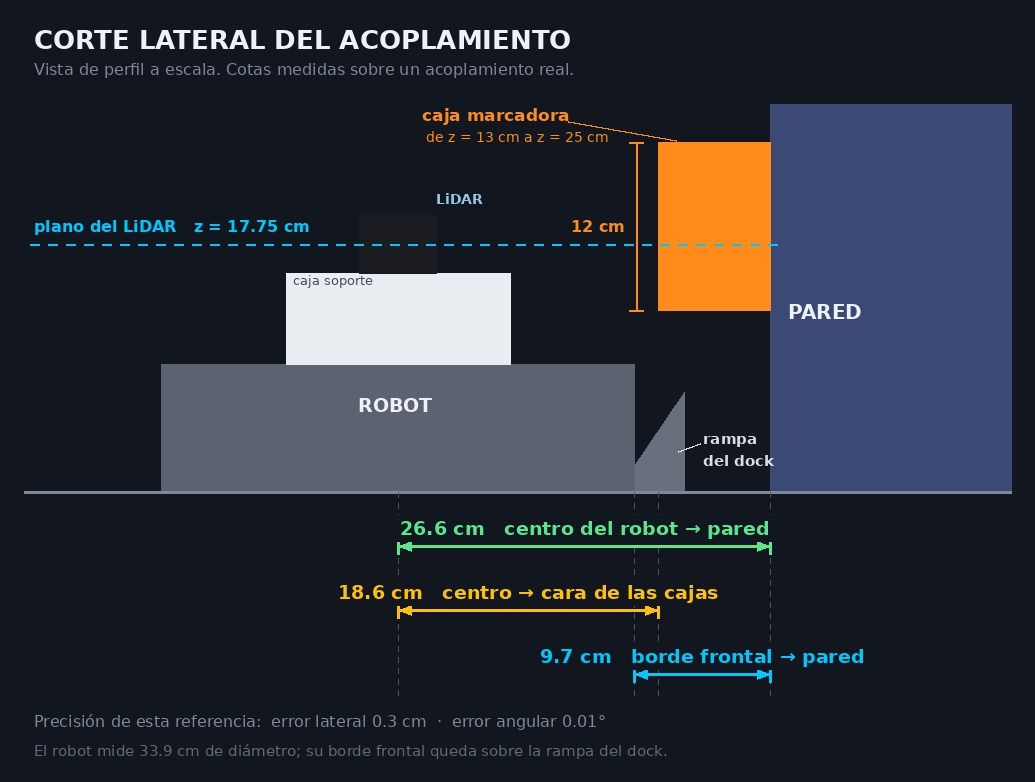
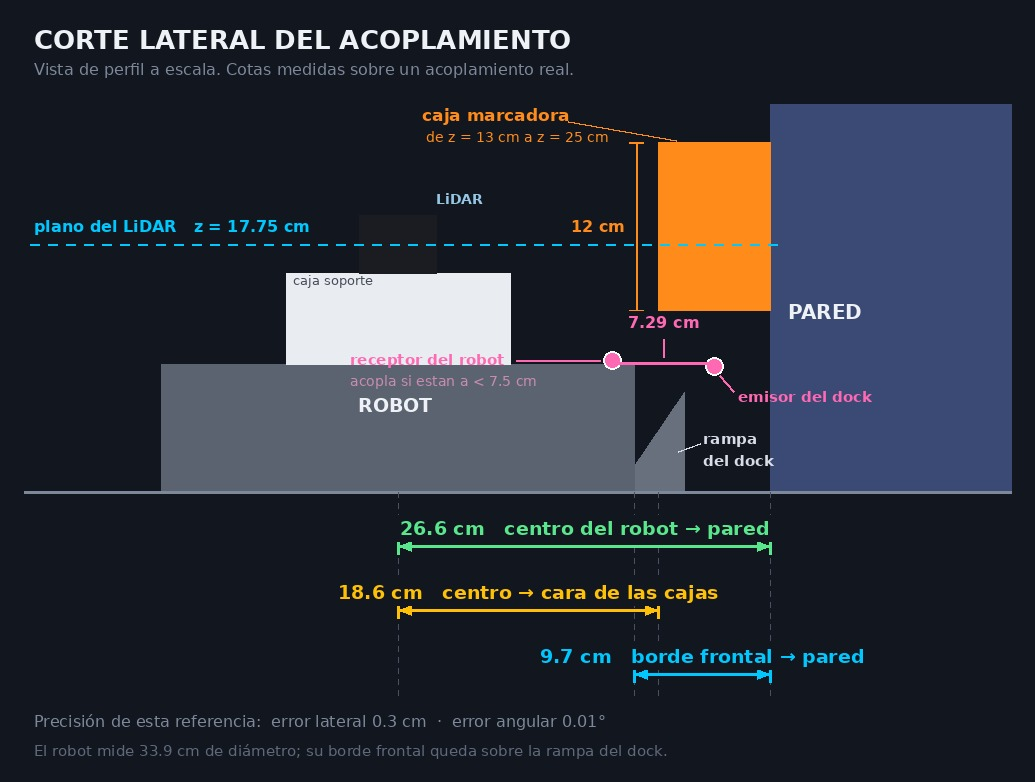
Documenta el criterio exacto de acoplamiento
El plugin del simulador marca is_docked cuando se cumplen tres condiciones a
la vez: el receptor infrarrojo del robot a menos de 7.5 cm del emisor del
dock, y ambos alineados dentro de +-6 grados en los dos sentidos
(DOCKED_DISTANCE = 0.075, DOCKED_YAW = pi/30 en el codigo del plugin).

Se localizan los dos puntos y se verifican contra el simulador: el emisor
del dock esta a 4 cm de la pared sobre su eje, y el receptor del robot 15.3
cm por delante de su centro. De ahi salen las dos cotas que el participante
si puede medir: centro del robot a menos de 26.8 cm de la pared, y menos de
unos 8 mm de desviacion lateral respecto al eje del hueco.

El corte lateral marca ahora ambos puntos y la separacion medida de 7.29 cm,
a 2 mm del umbral, para que se vea lo estrecho que es el margen.

Changed region(s): [[0.3401, 0.4297, 0.7111, 0.491], [0.7111, 0.491, 0.8348, 0.5217], [0.6184, 0.399, 0.6802, 0.4297]]

diff --git a/README.md b/README.md
@@ -450,6 +450,43 @@ la rampa del dock mientras su centro se detiene a unos 26.6 cm de la pared.
 > referencia de precisión de esa corrida fue de **0.3 cm de error lateral y
 > 0.01° de error angular**.
 
+### ¿Cuándo cuenta exactamente como acoplado?
+
+La estación de carga y el robot se "enganchan" por **infrarrojos**. El dock
+lleva un emisor y el robot un receptor, y el simulador da por acoplado el robot
+cuando esos dos puntos se encuentran.
+
+| Punto | Dónde está |
+|---|---|
+| **Emisor del dock** | En el eje del dock, a **4 cm de la pared** |
+| **Receptor del robot** | En la línea central del robot, **15.3 cm por delante de su centro** |
+
+Se marca `is_docked: true` cuando se cumplen **las tres condiciones a la vez**:
+
+| # | Condición | Umbral |
+|---|---|---|
+| 1 | **Distancia** entre receptor y emisor | menos de **7.5 cm** |
+| 2 | **El robot está sobre el eje del dock** (visto desde el dock) | dentro de **±6°** |
+| 3 | **El robot apunta al dock** (visto desde el robot) | dentro de **±6°** |
+
+*(Umbrales tomados del código del simulador: `DOCKED_DISTANCE = 0.075 m`,
+`DOCKED_YAW = π/30`.)*
+
+**Traducido a lo que tú puedes medir:**
+
+- 🎯 **Alineación.** No basta con mirar al dock: tienes que estar **sobre su
+  eje**. A la distancia de acoplamiento, ±6° equivale a **menos de ~8 mm** de
+  desviación lateral respecto al centro del hueco entre las cajas. Por eso hay
+  que **alinearse antes de entrar**, no mientras entras.
+- 📏 **Distancia.** El centro del robot tiene que llegar a **menos de 26.8 cm
+  de la pared**. Más lejos, el receptor no alcanza al emisor y no engancha.
+
+> Fíjate en lo estrecho del margen: la corrida de referencia acabó con los dos
+> puntos a **7.29 cm** — solo 2 mm dentro del umbral de 7.5 cm — y con el centro
+> del robot a **26.6 cm** de la pared, a 2 mm del límite. **Quedarse corto es el
+> fallo más común:** el robot se detiene "casi" acoplado y `is_docked` nunca
+> pasa a `true`.
+
 ### Cómo se comprueba
 
 Una corrida es exitosa cuando:
